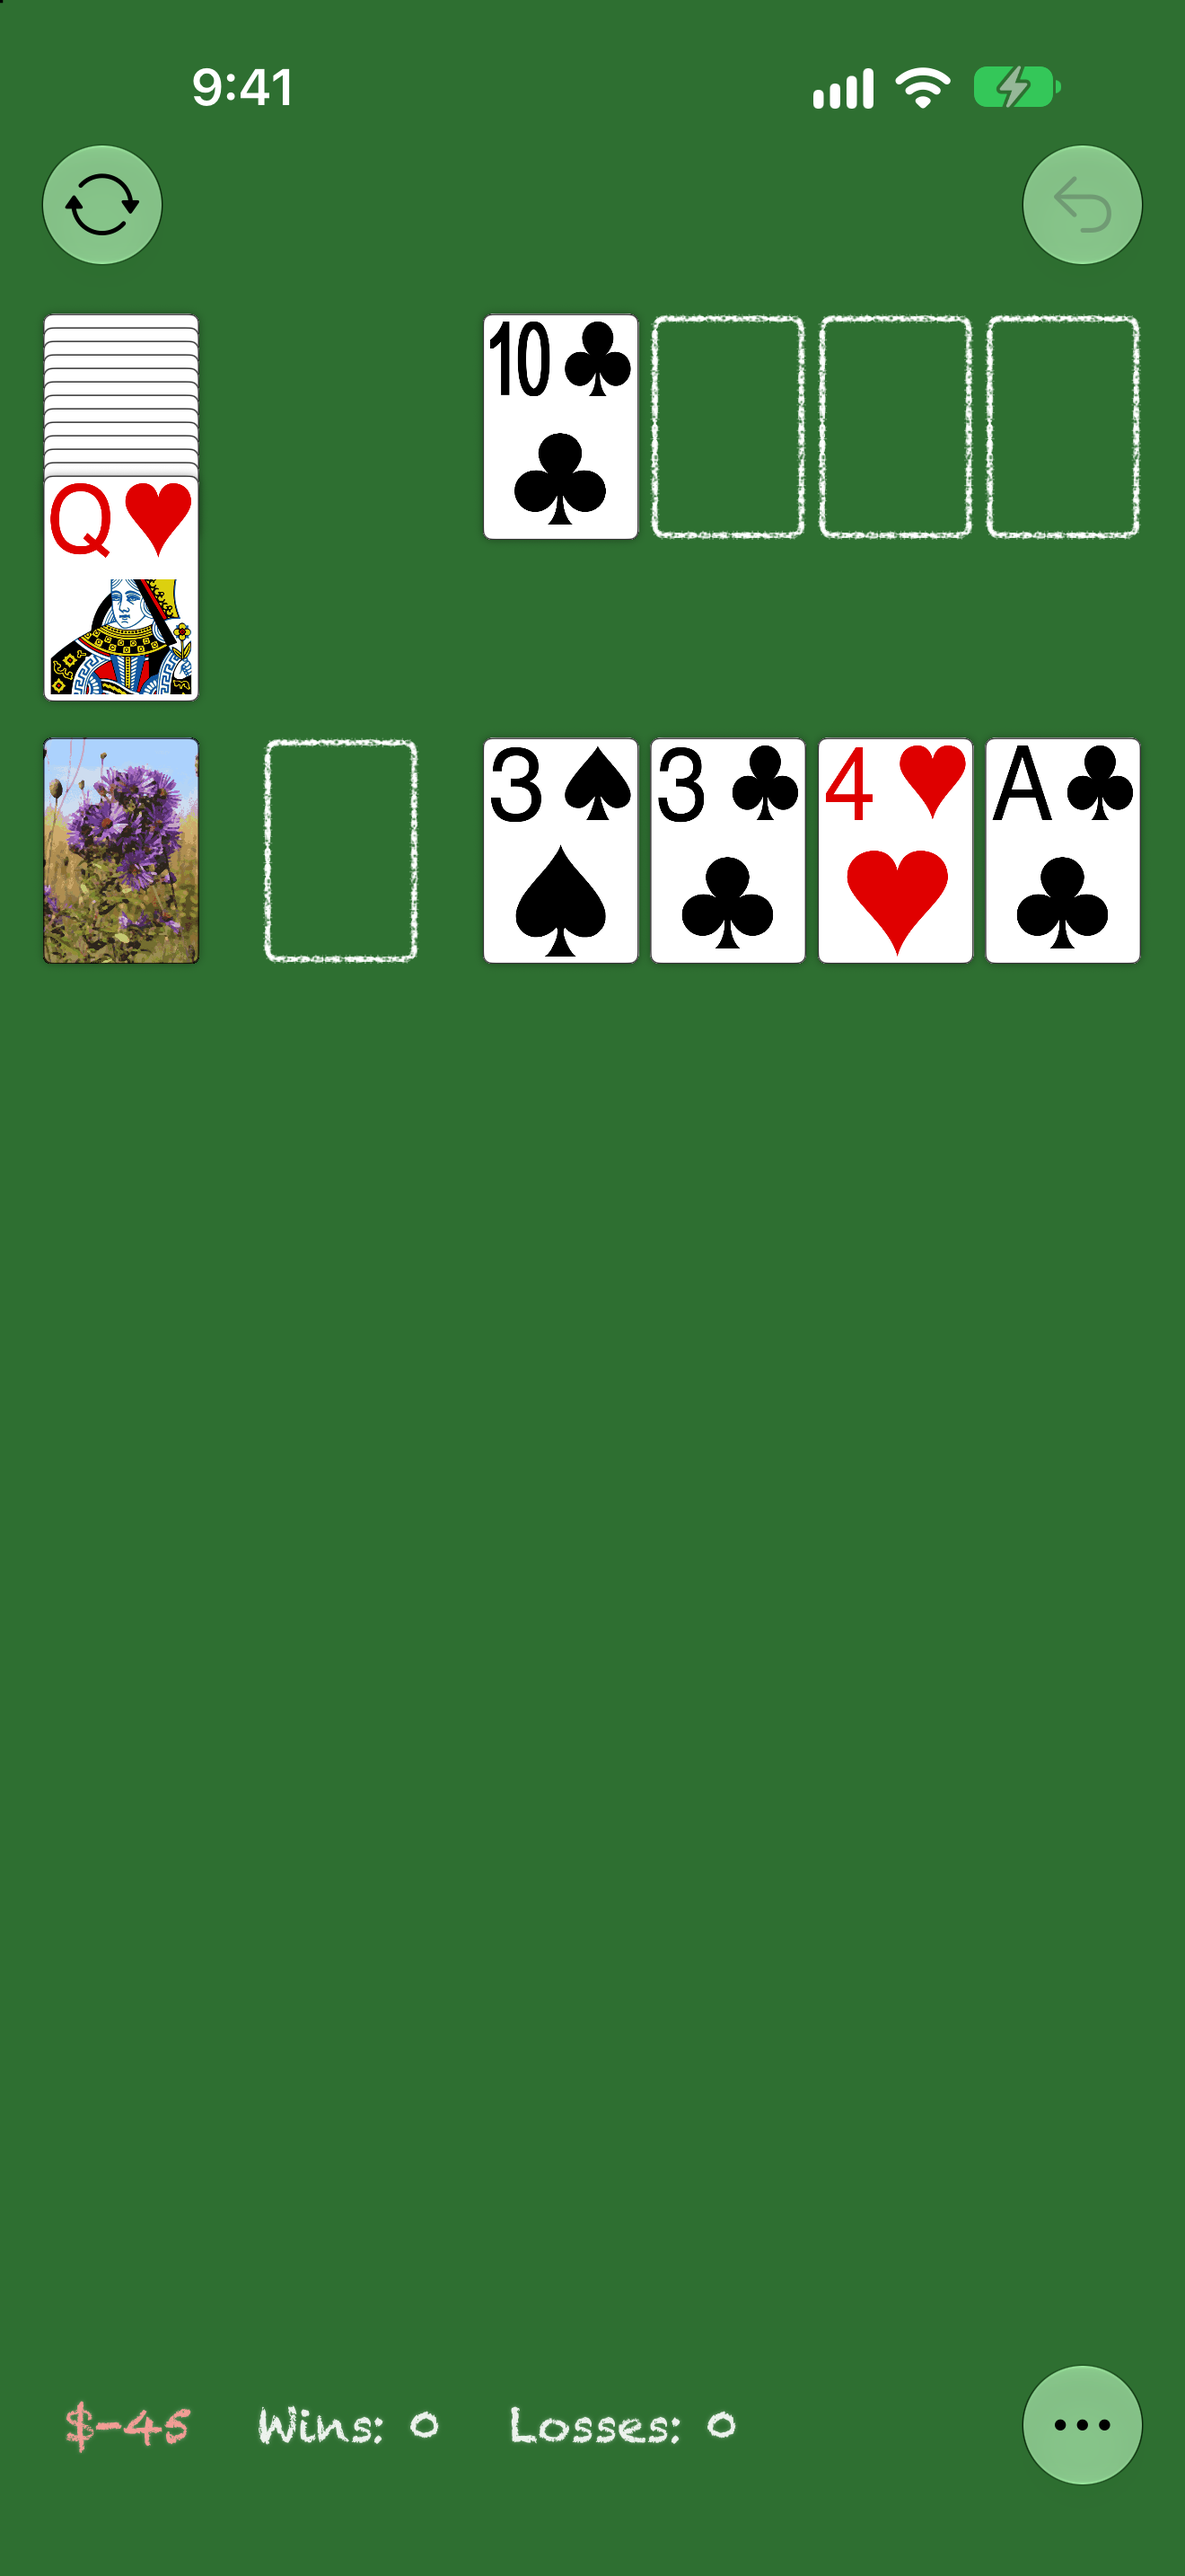
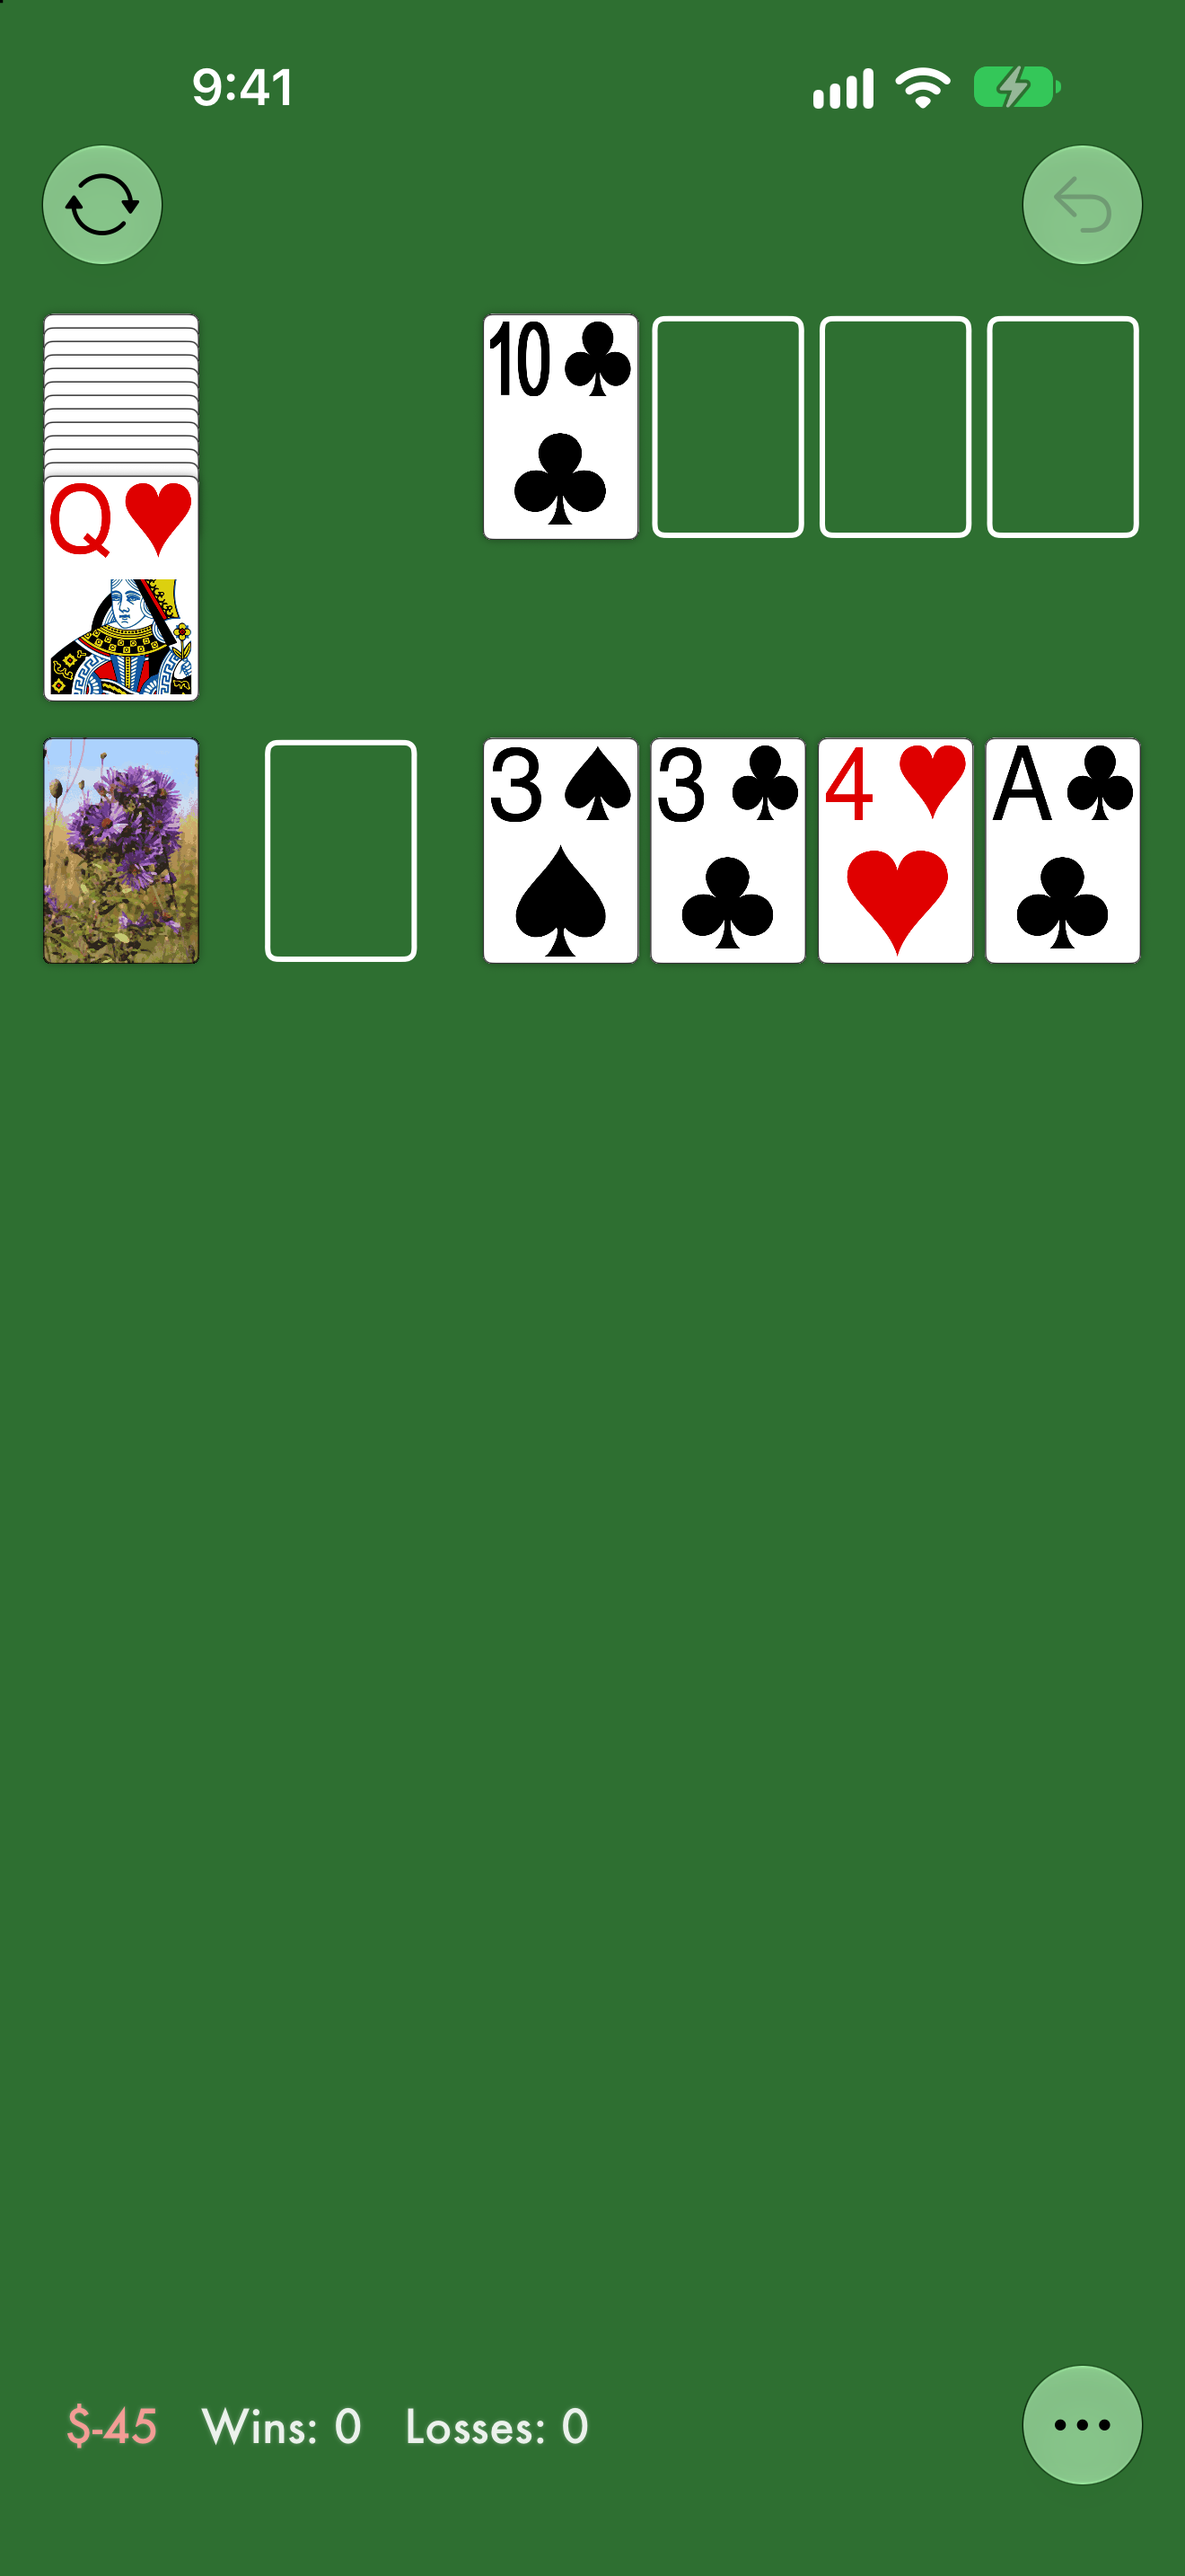
Write the score in plain Futura and draw the stack outlines as plain lines
The score, wins and losses are in Futura Medium instead of Chalkduster, and each empty spot's outline is a
smooth 2pt rounded rectangle instead of worn chalk with ragged edges.  The outlines keep their softer color
in dark mode, and the App Store screenshots are regenerated to match.

Claude-Session: https://claude.ai/code/session_01CE1d5xP9GvDtiA7Rei4bWG

diff --git a/Suze Solitaire/CardStack.swift b/Suze Solitaire/CardStack.swift
@@ -46,43 +46,19 @@ class CardStack: NSObject {
     var baseSliceHeight = 30
     var stackZ = Int()
     var view   = UIView()
-    // The card-sized outline of the stack's spot, chalked on the felt like the score: under its cards, so it shows
-    // whenever they're moved off it.  It's a chalk texture with gaps worn into it, showing through a straight
-    // rounded-rectangle stroke with clumps of chalk along its edges.
+    // The card-sized outline of the stack's spot, drawn on the felt: under its cards, so it shows whenever they're moved
+    // off it.  It's the outline color showing through a rounded-rectangle stroke.
     let outline = CALayer()
     let outlineStroke = CAShapeLayer()
-    let outlineClumps = [CAShapeLayer(), CAShapeLayer(), CAShapeLayer(), CAShapeLayer()]
     // How far apart cards in the blind (fub) and deal are fanned
     static let fannedSliceHeight = 5
     // Softer on the dimmer dark-mode felt.  ViewController.applyAppearance sets isDark.
     static var isDark = false
     static var outlineColor: CGColor {
-        CardStack.isDark ? CardStack.darkChalk : CardStack.lightChalk
+        CardStack.isDark ? CardStack.darkOutline : CardStack.lightOutline
     }
-    static let lightChalk = CardStack.chalk(alpha: 1).cgColor
-    static let darkChalk  = CardStack.chalk(alpha: 0.6).cgColor
-
-    // Chalk: solid white, worn through in small irregular spots, the same every launch
-    static func chalk(alpha: CGFloat) -> UIColor {
-        var generator = SeededGenerator(seed: 52)
-        let format = UIGraphicsImageRendererFormat()
-        format.scale  = 2
-        format.opaque = false
-        let size  = CGFloat(64)
-        let image = UIGraphicsImageRenderer(size: CGSize(width: size, height: size), format: format).image { context in
-            UIColor.white.withAlphaComponent(alpha).setFill()
-            context.fill(CGRect(x: 0, y: 0, width: size, height: size))
-            context.cgContext.setBlendMode(.clear)
-            for _ in 0..<1800 {
-                let x = CGFloat.random(in: 0..<size, using: &generator)
-                let y = CGFloat.random(in: 0..<size, using: &generator)
-                let w = CGFloat.random(in: 0.3...1.4, using: &generator)
-                let h = CGFloat.random(in: 0.3...1.1, using: &generator)
-                context.cgContext.fillEllipse(in: CGRect(x: x, y: y, width: w, height: h))
-            }
-        }
-        return UIColor(patternImage: image)
-    }
+    static let lightOutline = UIColor.white.cgColor
+    static let darkOutline  = UIColor.white.withAlphaComponent(0.6).cgColor
     
     init(type: cardStackType) {
 //        var point = CGPoint(x: x, y: y)
@@ -109,32 +85,8 @@ class CardStack: NSObject {
         self.stackType = type
         self.outlineStroke.fillColor   = nil
         self.outlineStroke.strokeColor = UIColor.black.cgColor
-        self.outlineStroke.lineWidth   = 1
-        // Lumps of chalk of different sizes along the line make its edges ragged: a few wide ones far apart, more
-        // middling ones, and lots of small ones, at irregular lengths so they don't repeat in a pattern
-        var generator = SeededGenerator(seed: 7)
-        // The further out from the line, the fainter, so the chalk fades away at its edges
-        let clumps: [(width: CGFloat, dash: ClosedRange<CGFloat>, gap: ClosedRange<CGFloat>, cap: CAShapeLayerLineCap, opacity: Float)] = [
-            (2.5, 0.4...2.2, 2...7, .round, 0.6),
-            (2, 0.6...3.5, 0.8...3, .round, 0.8),
-            (1.7, 0.2...1, 0.2...1.2, .butt, 0.9),
-            // Stray flecks just off the line
-            (3.4, 0.2...0.6, 0.6...3, .butt, 0.35),
-        ]
-        let mask = CALayer()
-        mask.addSublayer(self.outlineStroke)
-        for (layer, clump) in zip(self.outlineClumps, clumps) {
-            layer.fillColor   = nil
-            layer.strokeColor = UIColor.black.cgColor
-            layer.lineWidth   = clump.width
-            layer.lineCap     = clump.cap
-            layer.opacity     = clump.opacity
-            layer.lineDashPattern = (0..<40).map { i in
-                NSNumber(value: Double(CGFloat.random(in: i % 2 == 0 ? clump.dash : clump.gap, using: &generator)))
-            }
-            mask.addSublayer(layer)
-        }
-        self.outline.mask = mask
+        self.outlineStroke.lineWidth   = 2
+        self.outline.mask = self.outlineStroke
         self.outline.backgroundColor = CardStack.outlineColor
         self.view.layer.insertSublayer(self.outline, at: 0)
     }
@@ -155,11 +107,8 @@ class CardStack: NSObject {
         let radius = CGFloat(width) * Card.cornerRadiusFraction
         let path = UIBezierPath(roundedRect: bounds.insetBy(dx: 1.8, dy: 1.8), cornerRadius: radius).cgPath
         self.outline.frame = bounds
-        self.outline.mask?.frame = bounds
-        for layer in [self.outlineStroke] + self.outlineClumps {
-            layer.frame = bounds
-            layer.path  = path
-        }
+        self.outlineStroke.frame = bounds
+        self.outlineStroke.path  = path
         CATransaction.commit()
         // Make stacking tighter in the iPhone-style layout
         if self.stackType == .suitstack || self.stackType == .cardstack {

diff --git a/Suze SolitaireTests/Suze_SolitaireTests.swift b/Suze SolitaireTests/Suze_SolitaireTests.swift
@@ -123,7 +123,7 @@ final class Suze_SolitaireTests: XCTestCase {
         vc.redrawTable()
         for stack in allStacks(vc) {
             let outline = stack!.outline
-            XCTAssertNotNil(stack!.outlineStroke.path, "chalked around the spot")
+            XCTAssertNotNil(stack!.outlineStroke.path, "drawn around the spot")
             XCTAssertTrue(outline.superlayer === stack!.view.layer)
             XCTAssertEqual(stack!.view.layer.sublayers?.first, outline, "under the cards")
             XCTAssertEqual(outline.frame.size, vc.cardStacks[0]!.cards[0].view.frame.size)
@@ -267,10 +267,10 @@ final class Suze_SolitaireTests: XCTestCase {
         vc.losses = 1
         XCTAssertEqual(vc.chalkLine.text, "$-45   Wins: 2   Losses: 1")
         XCTAssertEqual(vc.chalkLine.accessibilityLabel, "$-45, Wins: 2, Losses: 1")
-        XCTAssertEqual(vc.chalkLine.font.fontName, "Chalkduster")
+        XCTAssertEqual(vc.chalkLine.font.fontName, "Futura-Medium")
         let red = try XCTUnwrap(vc.chalkLine.attributedText?.attribute(.foregroundColor, at: 0, effectiveRange: nil) as? UIColor)
         let white = try XCTUnwrap(vc.chalkLine.attributedText?.attribute(.foregroundColor, at: 8, effectiveRange: nil) as? UIColor)
-        XCTAssertNotEqual(red, white, "a score below zero is in red chalk")
+        XCTAssertNotEqual(red, white, "a score below zero is in red")
         XCTAssertTrue(vc.view.subviews.first === vc.chalkLine, "painted on the table, under the cards")
         XCTAssertEqual([vc.bucksBarButtonItem, vc.winsBarButtonItem, vc.lossesBarButtonItem].map { $0!.isHidden }, [true, true, true])
         // New Game is a plus, still named for VoiceOver, on the table and in iPhone Duo's strip
@@ -293,11 +293,11 @@ final class Suze_SolitaireTests: XCTestCase {
         vc.applyAppearance()
         XCTAssertTrue(top.view.image === top.faceImage)
         XCTAssertTrue(under.view.image === Card.blankFaceImage)
-        XCTAssertTrue(vc.cardStacks[0]!.outline.backgroundColor === CardStack.darkChalk)
+        XCTAssertTrue(vc.cardStacks[0]!.outline.backgroundColor === CardStack.darkOutline)
 
         vc.overrideUserInterfaceStyle = .light
         vc.applyAppearance()
-        XCTAssertTrue(vc.cardStacks[0]!.outline.backgroundColor === CardStack.lightChalk)
+        XCTAssertTrue(vc.cardStacks[0]!.outline.backgroundColor === CardStack.lightOutline)
     }
 
     func testUpperStacksClearLowerStacks() {

diff --git a/Suze Solitaire/ViewController+Controls.swift b/Suze Solitaire/ViewController+Controls.swift
@@ -6,7 +6,7 @@
 import UIKit
 
 // The table's buttons keep to its corners in every layout, all the same size: New Game at the top left, Undo at the top
-// right, and the "..." menu at the bottom right, under Undo.  The score, wins and losses are chalked on the felt along the
+// right, and the "..." menu at the bottom right, under Undo.  The score, wins and losses are written on the felt along the
 // bottom rather than shown as buttons, since they only show the numbers.  iPhone Duo folded is the exception: the system
 // puts the navigation bar's New Game and Undo in a strip down the side of the screen, so the "..." button goes at the
 // bottom of that strip.  redrawTable keeps the cards clear of all of them.
@@ -190,7 +190,7 @@ extension ViewController {
         self.updateChalk()
     }
 
-    // Chalks the toolbar's numbers on the felt: the score in red chalk when it's below zero
+    // Writes the toolbar's numbers on the felt in Futura: the score in red when it's below zero
     func updateChalk() {
         guard let bucks = self.bucksBarButtonItem, let wins = self.winsBarButtonItem, let losses = self.lossesBarButtonItem else {
             return
@@ -200,9 +200,10 @@ extension ViewController {
         shadow.shadowColor      = UIColor.white.withAlphaComponent(0.35)
         shadow.shadowBlurRadius = 1.5
         func chalk(_ string: String?, red: Bool = false, size: CGFloat) -> NSAttributedString {
-            let color = red ? UIColor(red: 1, green: 0.62, blue: 0.6, alpha: 0.92) : UIColor.white.withAlphaComponent(0.88)
-            return NSAttributedString(string: string ?? "", attributes: [
-                .font: UIFont(name: "Chalkduster", size: size) ?? .systemFont(ofSize: size), .foregroundColor: color, .shadow: shadow])
+            NSAttributedString(string: string ?? "", attributes: [
+                .font: UIFont(name: "Futura-Medium", size: size) ?? .systemFont(ofSize: size, weight: .medium),
+                .foregroundColor: red ? UIColor(red: 1, green: 0.62, blue: 0.6, alpha: 0.92) : UIColor.white.withAlphaComponent(0.88),
+                .shadow: shadow])
         }
         let titles = [bucks.title, wins.title, losses.title]
         // Bigger on the bigger table

diff --git a/Suze Solitaire/ViewController.swift b/Suze Solitaire/ViewController.swift
@@ -46,7 +46,7 @@ class ViewController: UIViewController {
     lazy var newGameButton = self.makeCornerButton(symbol: "arrow.triangle.2.circlepath", label: "New Game") { [unowned self] in self.startNewGameWithSender(sender: self) }
     lazy var undoButton    = self.makeCornerButton(symbol: "arrow.uturn.backward", label: "Undo") { [unowned self] in self.undoMove(self) }
     lazy var menuButton    = self.makeMenuButton()
-    // The score, wins and losses chalked on the felt beside the "..." button
+    // The score, wins and losses written on the felt beside the "..." button
     let chalkLine = UILabel()
     // The size the table was last laid out for (see viewDidLayoutSubviews)
     var laidOutSize = CGSize.zero
